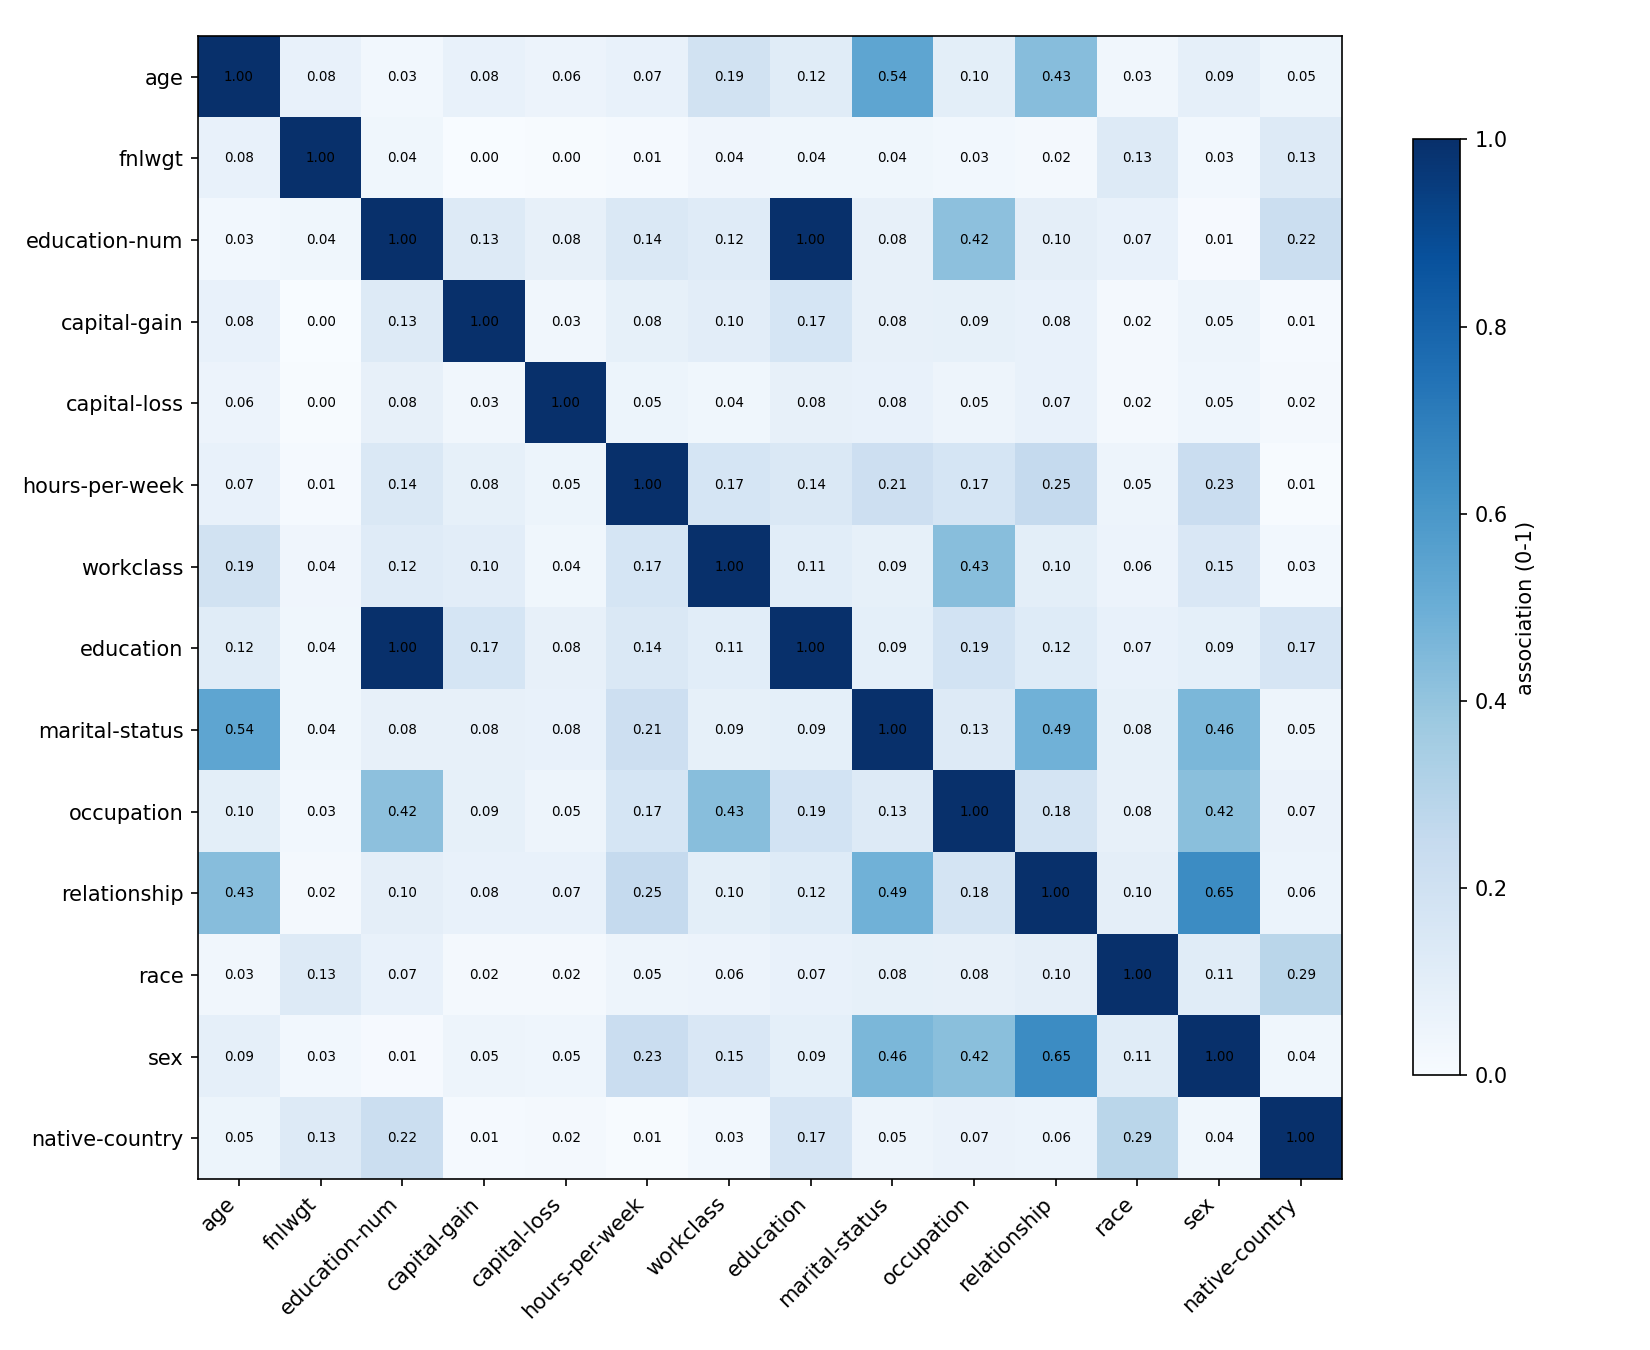
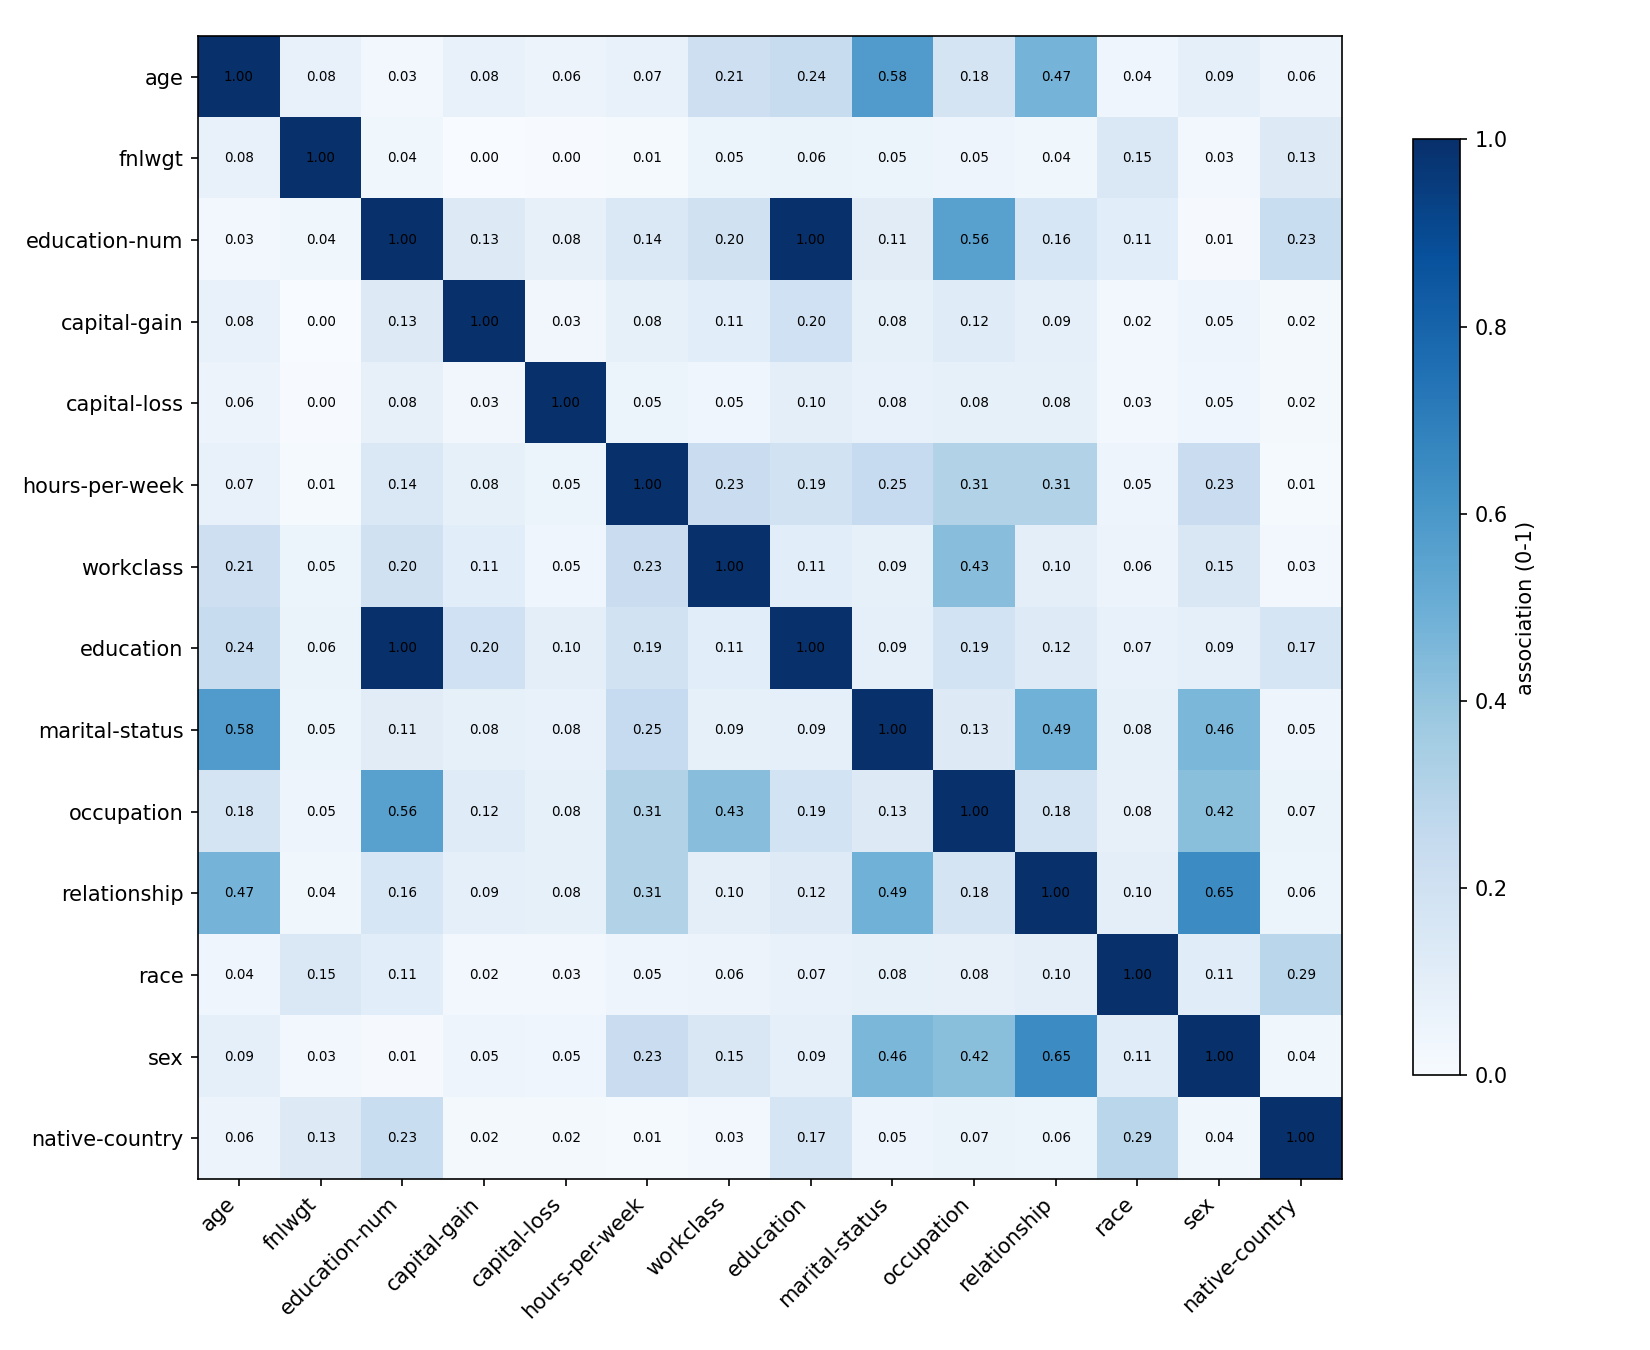
q1.5: score mixed pairs with the correlation ratio

diff --git a/Oblig2/exercise1/q1_5_association.py b/Oblig2/exercise1/q1_5_association.py
@@ -1,11 +1,9 @@
 """Ex1 Q1.5 - Association between the features.
 
-Builds a single 14x14 association matrix for the mixed-type data. Pearson |r|
-for numeric-numeric pairs and Cramer's V (the measure the brief suggests) for
-categorical-categorical pairs. A numeric-categorical pair is scored as the
-largest Pearson |r| between the numeric and any one-hot level of the
-categorical, so no statistic beyond Pearson is needed for the mixed cells.
-All values lie in [0, 1] so one heatmap works for every combination.
+Builds a single 14x14 association matrix for the mixed-type data: Pearson |r|
+for numeric-numeric pairs, Cramer's V for categorical-categorical pairs, and
+the correlation ratio (eta) for numeric-categorical pairs. All values lie in
+[0, 1] so one heatmap works for every combination.
 """
 
 import sys
@@ -42,17 +40,6 @@ for col in CATEGORICAL_COLUMNS:
 FEATURES = NUMERIC_COLUMNS + CATEGORICAL_COLUMNS
 
 
-# The one categorical with a natural order (Q1.4). Scored as an ordered
-# variable as well as level-by-level, so the 1:1 with education-num shows up.
-ORDINAL_ORDER = {
-    "education": [
-        "Preschool", "1st-4th", "5th-6th", "7th-8th", "9th", "10th", "11th",
-        "12th", "HS-grad", "Some-college", "Assoc-voc", "Assoc-acdm",
-        "Bachelors", "Masters", "Prof-school", "Doctorate",
-    ],
-}
-
-
 def cramers_v(a, b):
     """Cramer's V between two categorical series."""
     tab = pd.crosstab(a, b)
@@ -62,19 +49,13 @@ def cramers_v(a, b):
     return float(np.sqrt(chi2 / n / min(r - 1, k - 1)))
 
 
-def max_level_r(num, cat):
-    """Largest Pearson |r| between a numeric series and any encoding of a categorical.
-
-    Scored against the one-hot level dummies, and against the ordered code as
-    well when the categorical has a natural order, so the 1:1 between
-    education and education-num shows up as 1.00 instead of hiding in a level.
-    """
-    dummies = pd.get_dummies(df[cat], prefix=cat, dtype=float)
-    best = max(abs(dummies[c].corr(df[num])) for c in dummies.columns)
-    if cat in ORDINAL_ORDER:
-        codes = df[cat].map({lvl: i for i, lvl in enumerate(ORDINAL_ORDER[cat])})
-        best = max(best, abs(codes.corr(df[num])))
-    return float(best)
+def correlation_ratio(cat, num):
+    """Correlation ratio (eta) of the numeric series grouped by cat."""
+    groups = num.groupby(cat)
+    grand = num.mean()
+    ss_between = ((groups.mean() - grand) ** 2 * groups.size()).sum()
+    ss_total = ((num - grand) ** 2).sum()
+    return float(np.sqrt(ss_between / ss_total))
 
 
 assoc = pd.DataFrame(np.eye(len(FEATURES)), index=FEATURES, columns=FEATURES)
@@ -88,7 +69,7 @@ for i, a in enumerate(FEATURES):
             v = cramers_v(df[a], df[b])
         else:
             num, cat = (a, b) if a in NUMERIC_COLUMNS else (b, a)
-            v = max_level_r(num, cat)
+            v = correlation_ratio(df[cat], df[num])
         assoc.loc[a, b] = assoc.loc[b, a] = v
 
 assoc.to_csv(OUT_DIR / "q1_5_association.csv")
